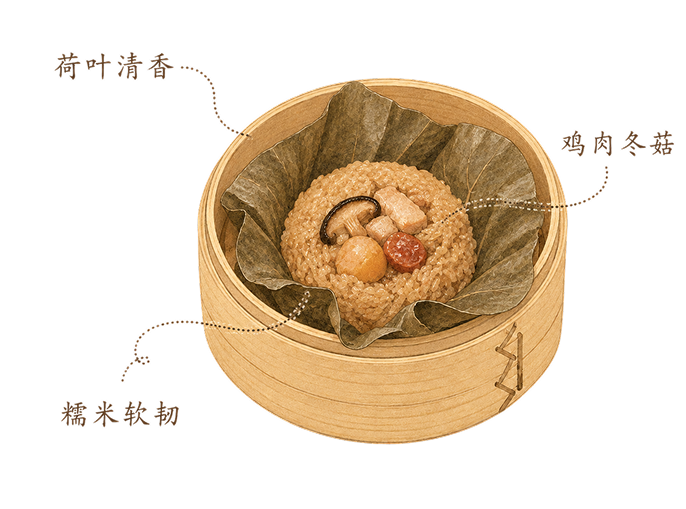
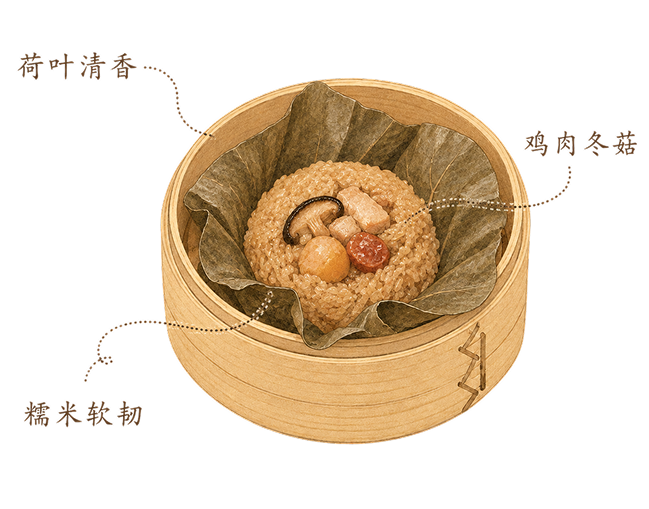
更新糯米鸡介绍卡素材

diff --git a/src/data/dishes.ts b/src/data/dishes.ts
@@ -142,7 +142,7 @@ export const DISHES: Dish[] = [
     fullName: '荷香糯米鸡',
     category: '粥粉',
     asset: '/nuomiji.png?v=2', // ?v=2 强制刷新缓存（图更新为无背景版）
-    cardAsset: '/guangfu-dim-sum-cards/visual/nuomiji.png',
+    cardAsset: '/guangfu-dim-sum-cards/visual/nuomiji.png?v=2', // ?v=2 强制刷新缓存（素材更新过一版）
     intro:
       '荷香糯米鸡是茶市饭点的主角：糯米裹入鸡肉、叉烧、咸蛋黄、冬菇等丰富馅料，以荷叶包实蒸熟。揭盖瞬间荷香扑鼻，糯米绵软吸足馅汁，咸鲜油润，一份就能吃得心满意足。',
     notes: ['荷叶清香', '糯米绵软', '馅料丰盈'],
